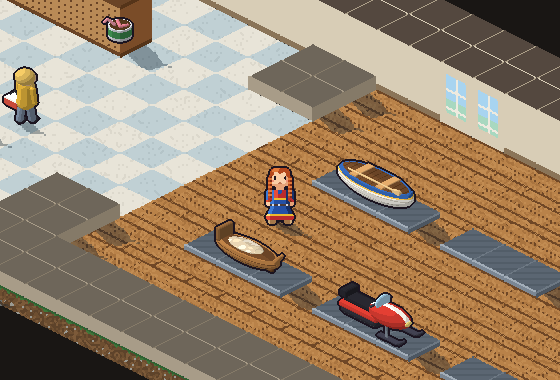
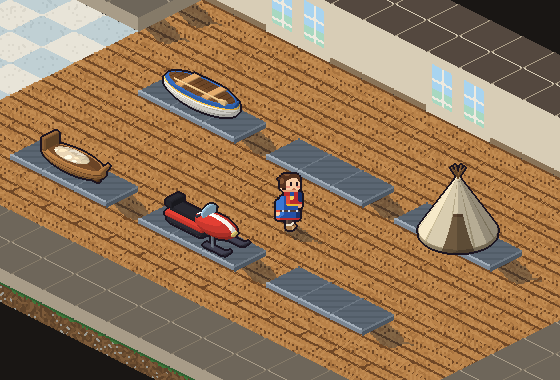
Sátnemátki v0.2.4
The start page shows the newest additions in clips that play by themselves: the
classroom lesson, Rautakauppa and Laavu. Paikat now has all three too, with their
own pictures and hover clips, which the game's menu also uses.

diff --git a/index.html b/index.html
@@ -11,7 +11,7 @@
 <div class="stripe"></div>
 <header class="hero">
   <div class="hero-text">
-    <h1 lang="se">Sátnemátki <small>v0.2.3</small></h1>
+    <h1 lang="se">Sátnemátki <small>v0.2.4</small></h1>
     <p class="lead">Pohjoissaamen sanapeli lapsille. Nimi tarkoittaa <em>sanamatkaa</em>: kuljet hahmollasi kodissa, metsässä ja kaupassa ja etsit sen, mitä saamenkielinen sana tarkoittaa.</p>
     <a class="play" href="peli.html">Pelaa selaimessa</a>
     <p class="fine">Maksuton. Ei rekisteröitymistä eikä asennusta.</p>
@@ -41,6 +41,15 @@
   </section>
 
   <section>
+    <h2>Uusimmat lisäykset</h2>
+    <div class="places showcase">
+      <figure><picture><source media="(hover: hover) and (prefers-reduced-motion: no-preference)" srcset="art/site/clips/oppitunti.webp"><img src="art/site/oppitunti.png" width="280" height="190" alt="Luokassa opettaja on kirjoittanut luvun taululle ja kysyy puhekuplassa saameksi ja suomeksi, mikä luku se on. Hahmo viittaa ja vastaa." loading="lazy"></picture><figcaption><b>Luokan oppitunti</b> Opettaja kirjoittaa luvun taululle, sinä viittaat ja vastaat. Puhekuplat kertovat saameksi ja suomeksi, mitä sanotaan.</figcaption></figure>
+      <figure><picture><source media="(hover: hover) and (prefers-reduced-motion: no-preference)" srcset="art/site/clips/rautakauppa.webp"><img src="art/site/rautakauppa.png" width="280" height="190" alt="Hahmo kävelee rautakaupan näyttelytilassa veneen, moottorikelkan ja laavun välissä." loading="lazy"></picture><figcaption><b>Rautakauppa</b> Työkaluja, kalastustarvikkeita ja vaatteita sekä oma näyttelytila isoille tavaroille.</figcaption></figure>
+      <figure><picture><source media="(hover: hover) and (prefers-reduced-motion: no-preference)" srcset="art/site/clips/laavu.webp"><img src="art/site/laavu.png" width="280" height="190" alt="Iltahämärässä hahmo seisoo nuotion luona laavun edessä, ja koira hakee heitetyn kepin." loading="lazy"></picture><figcaption><b>Laavu</b> Rauhallinen ilta ilman kelloa: sytytä nuotio, laita ruokaa ja leiki koiran kanssa.</figcaption></figure>
+    </div>
+  </section>
+
+  <section>
     <h2>Paikat</h2>
     <div class="places">
       <figure><img src="art/site/koti.png" width="280" height="190" alt="" loading="lazy"><figcaption><b>Koti</b> Viisi huonetta, huonekalut ja perhe: 24 sanaa.</figcaption></figure>
@@ -48,7 +57,10 @@
       <figure><img src="art/site/parkkipaikka.png" width="280" height="190" alt="" loading="lazy"><figcaption><b>Parkkipaikka</b> Ajoneuvot ja värit kolmella tasolla.</figcaption></figure>
       <figure><img src="art/site/kirjasto.png" width="280" height="190" alt="" loading="lazy"><figcaption><b>Kirjasto</b> Kirjat, kynät ja vihot kolmella tasolla.</figcaption></figure>
       <figure><img src="art/site/kauppa.png" width="280" height="190" alt="" loading="lazy"><figcaption><b>Ruokakauppa</b> Kori, ostoslista, kassa ja ovi kahdella tasolla: 40 ruokaa.</figcaption></figure>
-      <figure><img src="art/site/luokka.png" width="280" height="190" alt="" loading="lazy"><figcaption><b>Luokka</b> Opettele numerot, kirjoita numerot ja kirjoita sanalla.</figcaption></figure>
+      <figure><img src="art/site/rautakauppa.png" width="280" height="190" alt="" loading="lazy"><figcaption><b>Rautakauppa</b> Työkalut, kalastustarvikkeet, vaatteet ja näyttelytila kahdella tasolla: 27 tavaraa.</figcaption></figure>
+      <figure><img src="art/site/luokka.png" width="280" height="190" alt="" loading="lazy"><figcaption><b>Luokka</b> Opettele numerot: etsi oikea numero pulpetilta.</figcaption></figure>
+      <figure><img src="art/site/oppitunti.png" width="280" height="190" alt="" loading="lazy"><figcaption><b>Luokan oppitunti</b> Kirjoita numerot ja Kirjoita sanalla: luvut 0–100 kolmella tasolla.</figcaption></figure>
+      <figure><img src="art/site/laavu.png" width="280" height="190" alt="" loading="lazy"><figcaption><b>Laavu</b> Rauhallinen ilta nuotiolla koiran kanssa, ilman kelloa.</figcaption></figure>
     </div>
   </section>
 
@@ -95,7 +107,7 @@
   </section>
 
   <section>
-    <h2>Uutta versioissa 0.1.5–0.2.3</h2>
+    <h2>Uutta versioissa 0.1.5–0.2.4</h2>
     <ul class="points">
       <li><strong>Uusi luokka.</strong> Pieni aurinkoinen luokka, jossa opettaja kirjoittaa numeroita taululle. Kirjoita numerot -tehtävässä luet luvun saameksi ja näppäilet sen numeroina, ja vaikeammassa Kirjoita sanalla -tehtävässä kirjoitat numeron sanana saamelaisella näppäimistöllä. Luokkatoverit viittaavat, jos odotat liian kauan, ja opettaja kiittää vastaajaa nimeltä.</li>
       <li><strong>Puhekuplat luokassa.</strong> Kun luokassa joku puhuu, sanottu näkyy puhekuplassa saameksi ja suomeksi. Kummankin kielen voi kytkeä pois tason valinnan yhteydessä.</li>

diff --git a/src/game.js b/src/game.js
@@ -1148,7 +1148,7 @@ function showPlaces() {
 // The start page's picture of each place, showing faintly behind its button in the menu. With the mouse over the button, its clip
 // plays instead; it loads only then, and phones and anyone who has asked for less motion keep the picture.
 const CLIPS_ON_HOVER = matchMedia("(hover: hover) and (prefers-reduced-motion: no-preference)").matches;
-const PLACE_MAPS = { home: "koti", forest: "elaimet", city: "parkkipaikka", library: "kirjasto", store: "kauppa", gearstore: "rautakauppa", camp: "laavu", classroom: "luokka", lesson: "luokka" };
+const PLACE_MAPS = { home: "koti", forest: "elaimet", city: "parkkipaikka", library: "kirjasto", store: "kauppa", gearstore: "rautakauppa", camp: "laavu", classroom: "luokka", lesson: "oppitunti" };
 // The menu's sections, by how far along the places are. A new place has to be added to one of them to show.
 const MENU_SECTIONS = [
   { heading: "Pelattava demo", places: ["forest", "store", "classroom"], look: "ready" },

diff --git a/src/site.js b/src/site.js
@@ -1,7 +1,7 @@
 // On the start page, a place's picture plays a short clip of the game while the mouse is over it. It loads only then, and
-// phones and anyone who has asked for less motion keep the still picture.
+// phones and anyone who has asked for less motion keep the still picture. The newest additions, in .showcase, play by themselves.
 if (matchMedia("(hover: hover) and (prefers-reduced-motion: no-preference)").matches) {
-  for (const figure of document.querySelectorAll(".places figure")) {
+  for (const figure of document.querySelectorAll(".places:not(.showcase) figure")) {
     const picture = figure.querySelector("img");
     const still = picture.src;
     const clip = still.replace(/art\/site\/(\w+)\.png$/, "art/site/clips/$1.webp");

diff --git a/peli.html b/peli.html
@@ -8,7 +8,7 @@
 </head>
 <body>
 <main>
-  <h1 id="game-title" lang="se">Sátnemátki <small>v0.2.3</small></h1>
+  <h1 id="game-title" lang="se">Sátnemátki <small>v0.2.4</small></h1>
   <header id="prompt" aria-live="polite"></header>
   <div id="top-hint" aria-live="polite"></div>
   <div id="view">

diff --git a/README.md b/README.md
@@ -1,6 +1,6 @@
 # Sátnemátki
 
-*Sátnemátki* means "word journey" in Northern Sámi. Version 0.2.3, a technology demo.
+*Sátnemátki* means "word journey" in Northern Sámi. Version 0.2.4, a technology demo.
 
 A Northern Sámi word game for children. The player creates a character, Máhtte or Biret, chooses a place, and
 walks around it in an isometric view with a camera that follows: furniture and family at home, animals in the forest, coloured books on the shelves and
